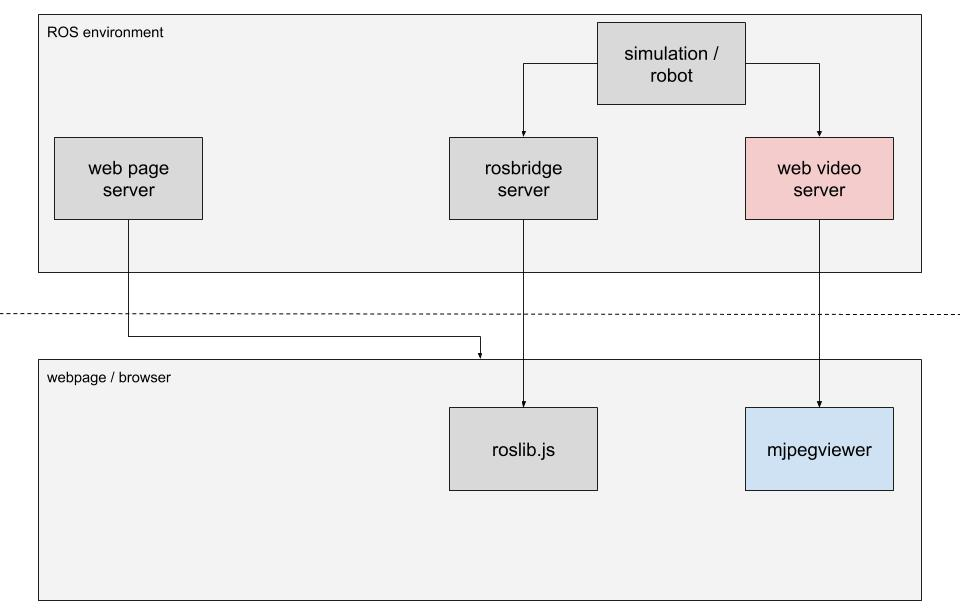
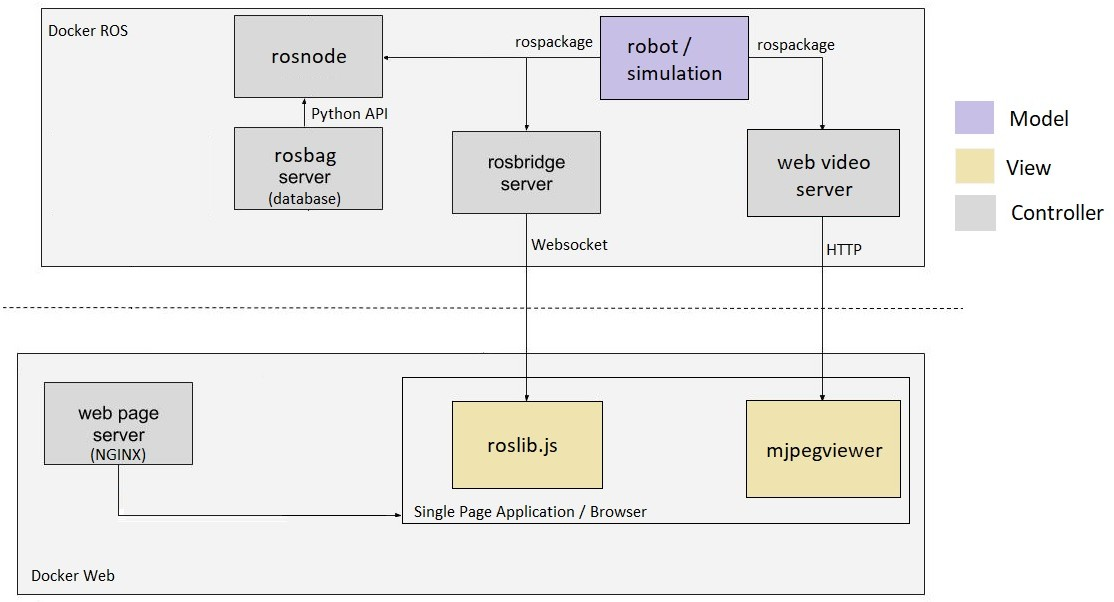
update diagram in readme

diff --git a/README.md b/README.md
@@ -4,8 +4,6 @@ My Final Project of Specialization Course at PUC Minas - Software Engineering
 
 <img src="media/diagram.jpg" width="700" height="400" />
 
-Image - https://www.theconstructsim.com/
-
 The web page interface enables to move and monitor the turtlebot (running in the Gazebo Simulation), by publishing and subscribing ROS topics.
 
 The deployment is done by docker containers.
